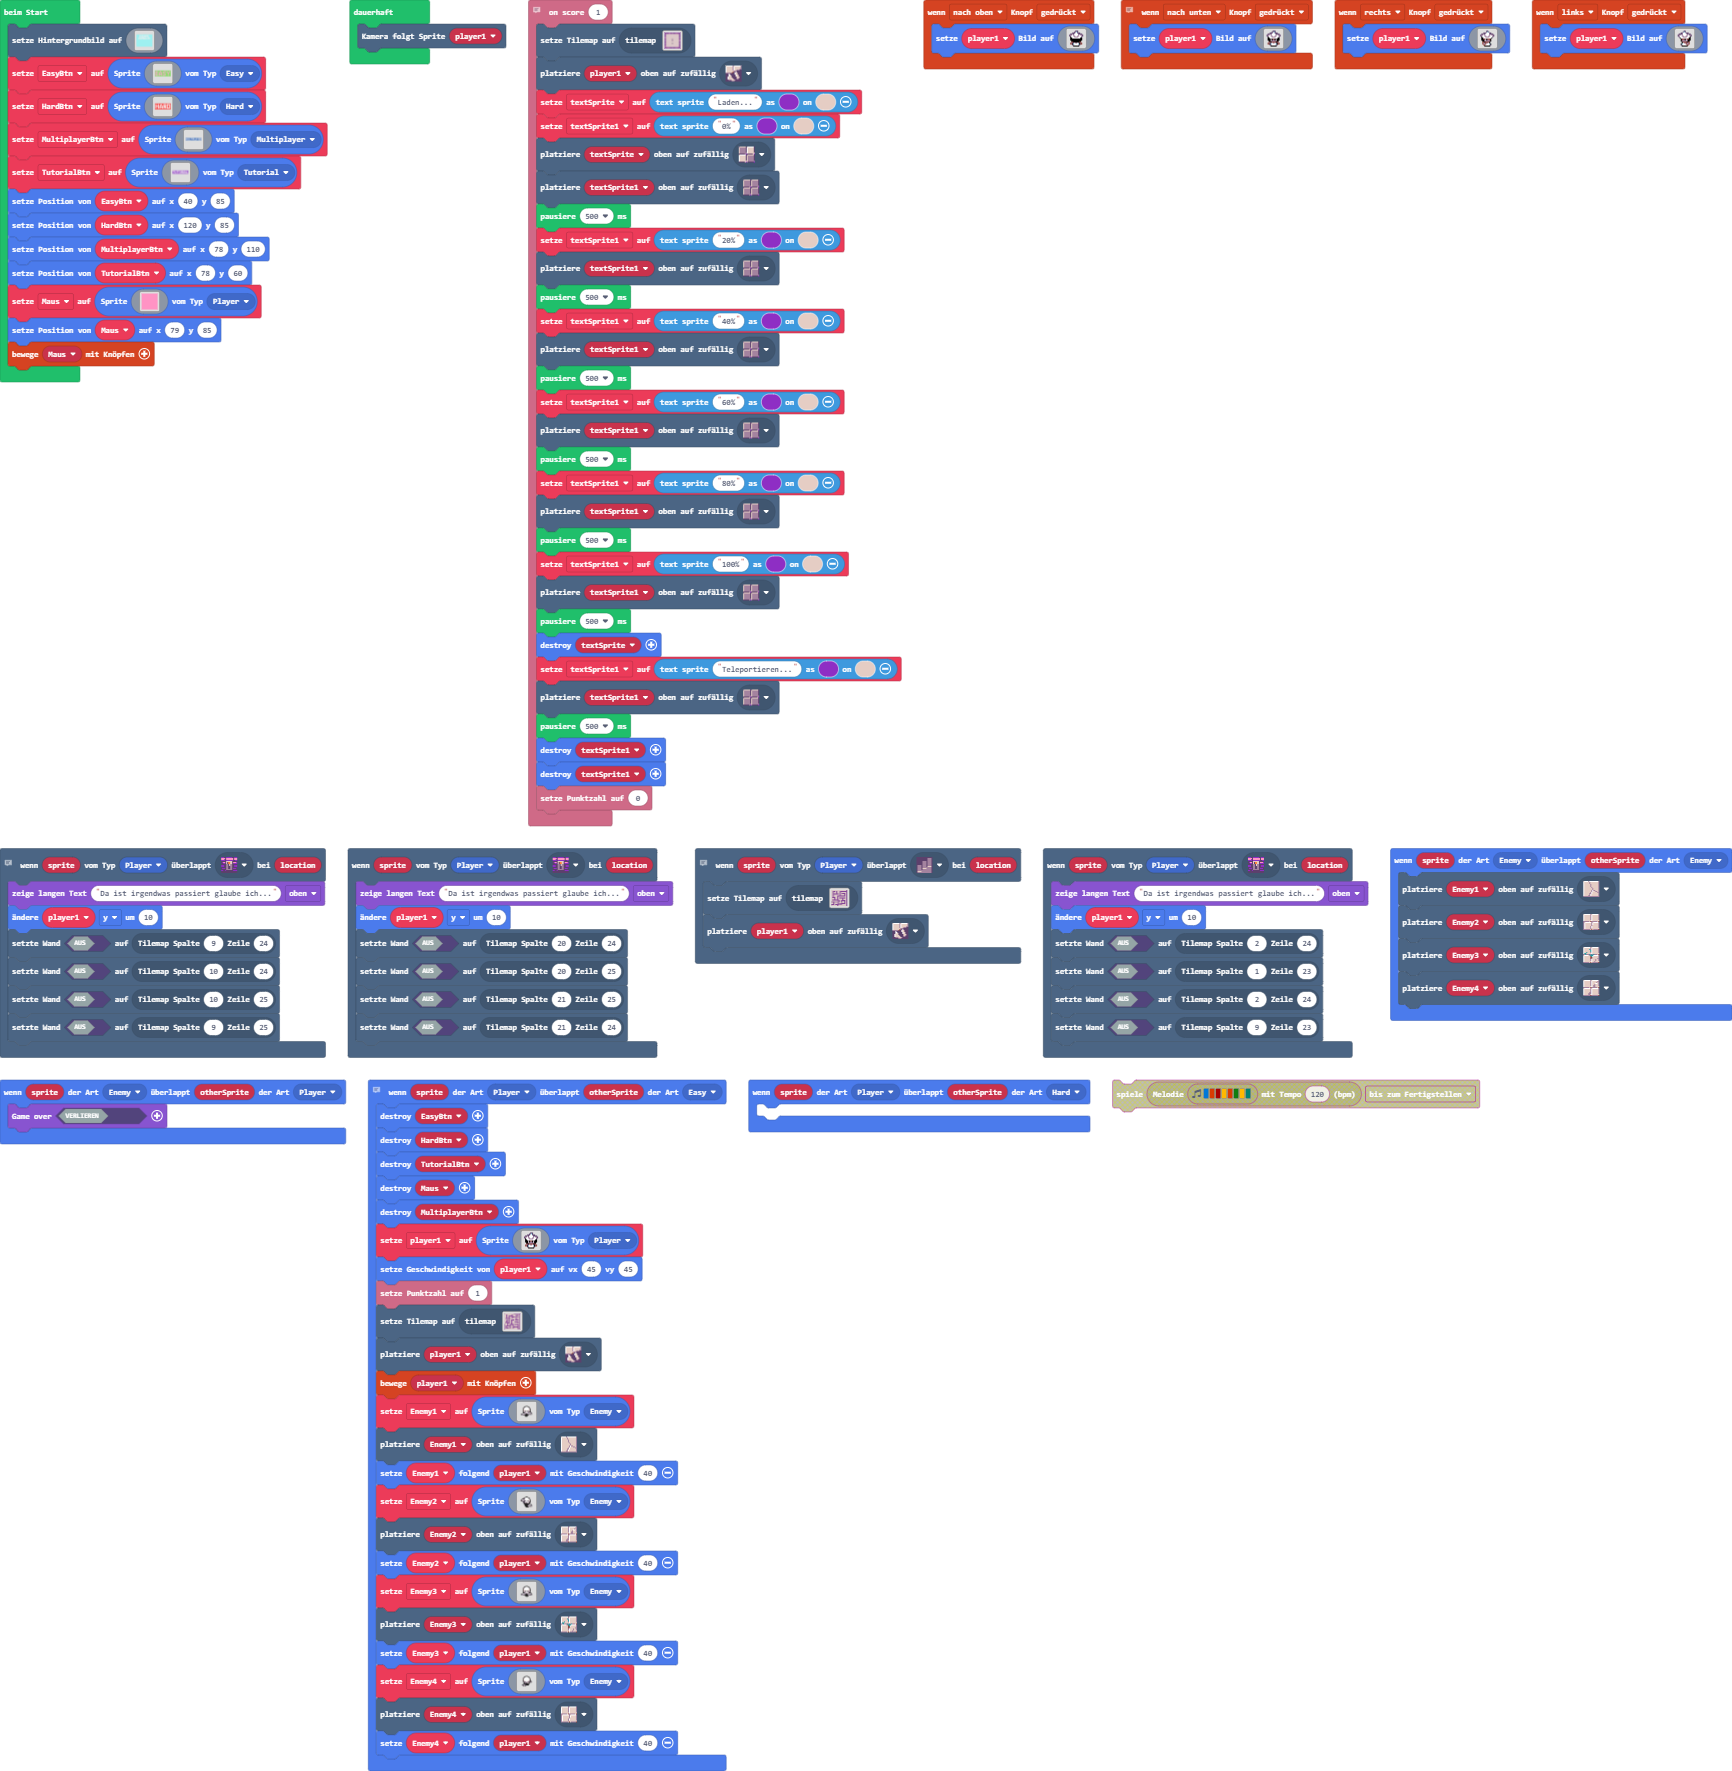
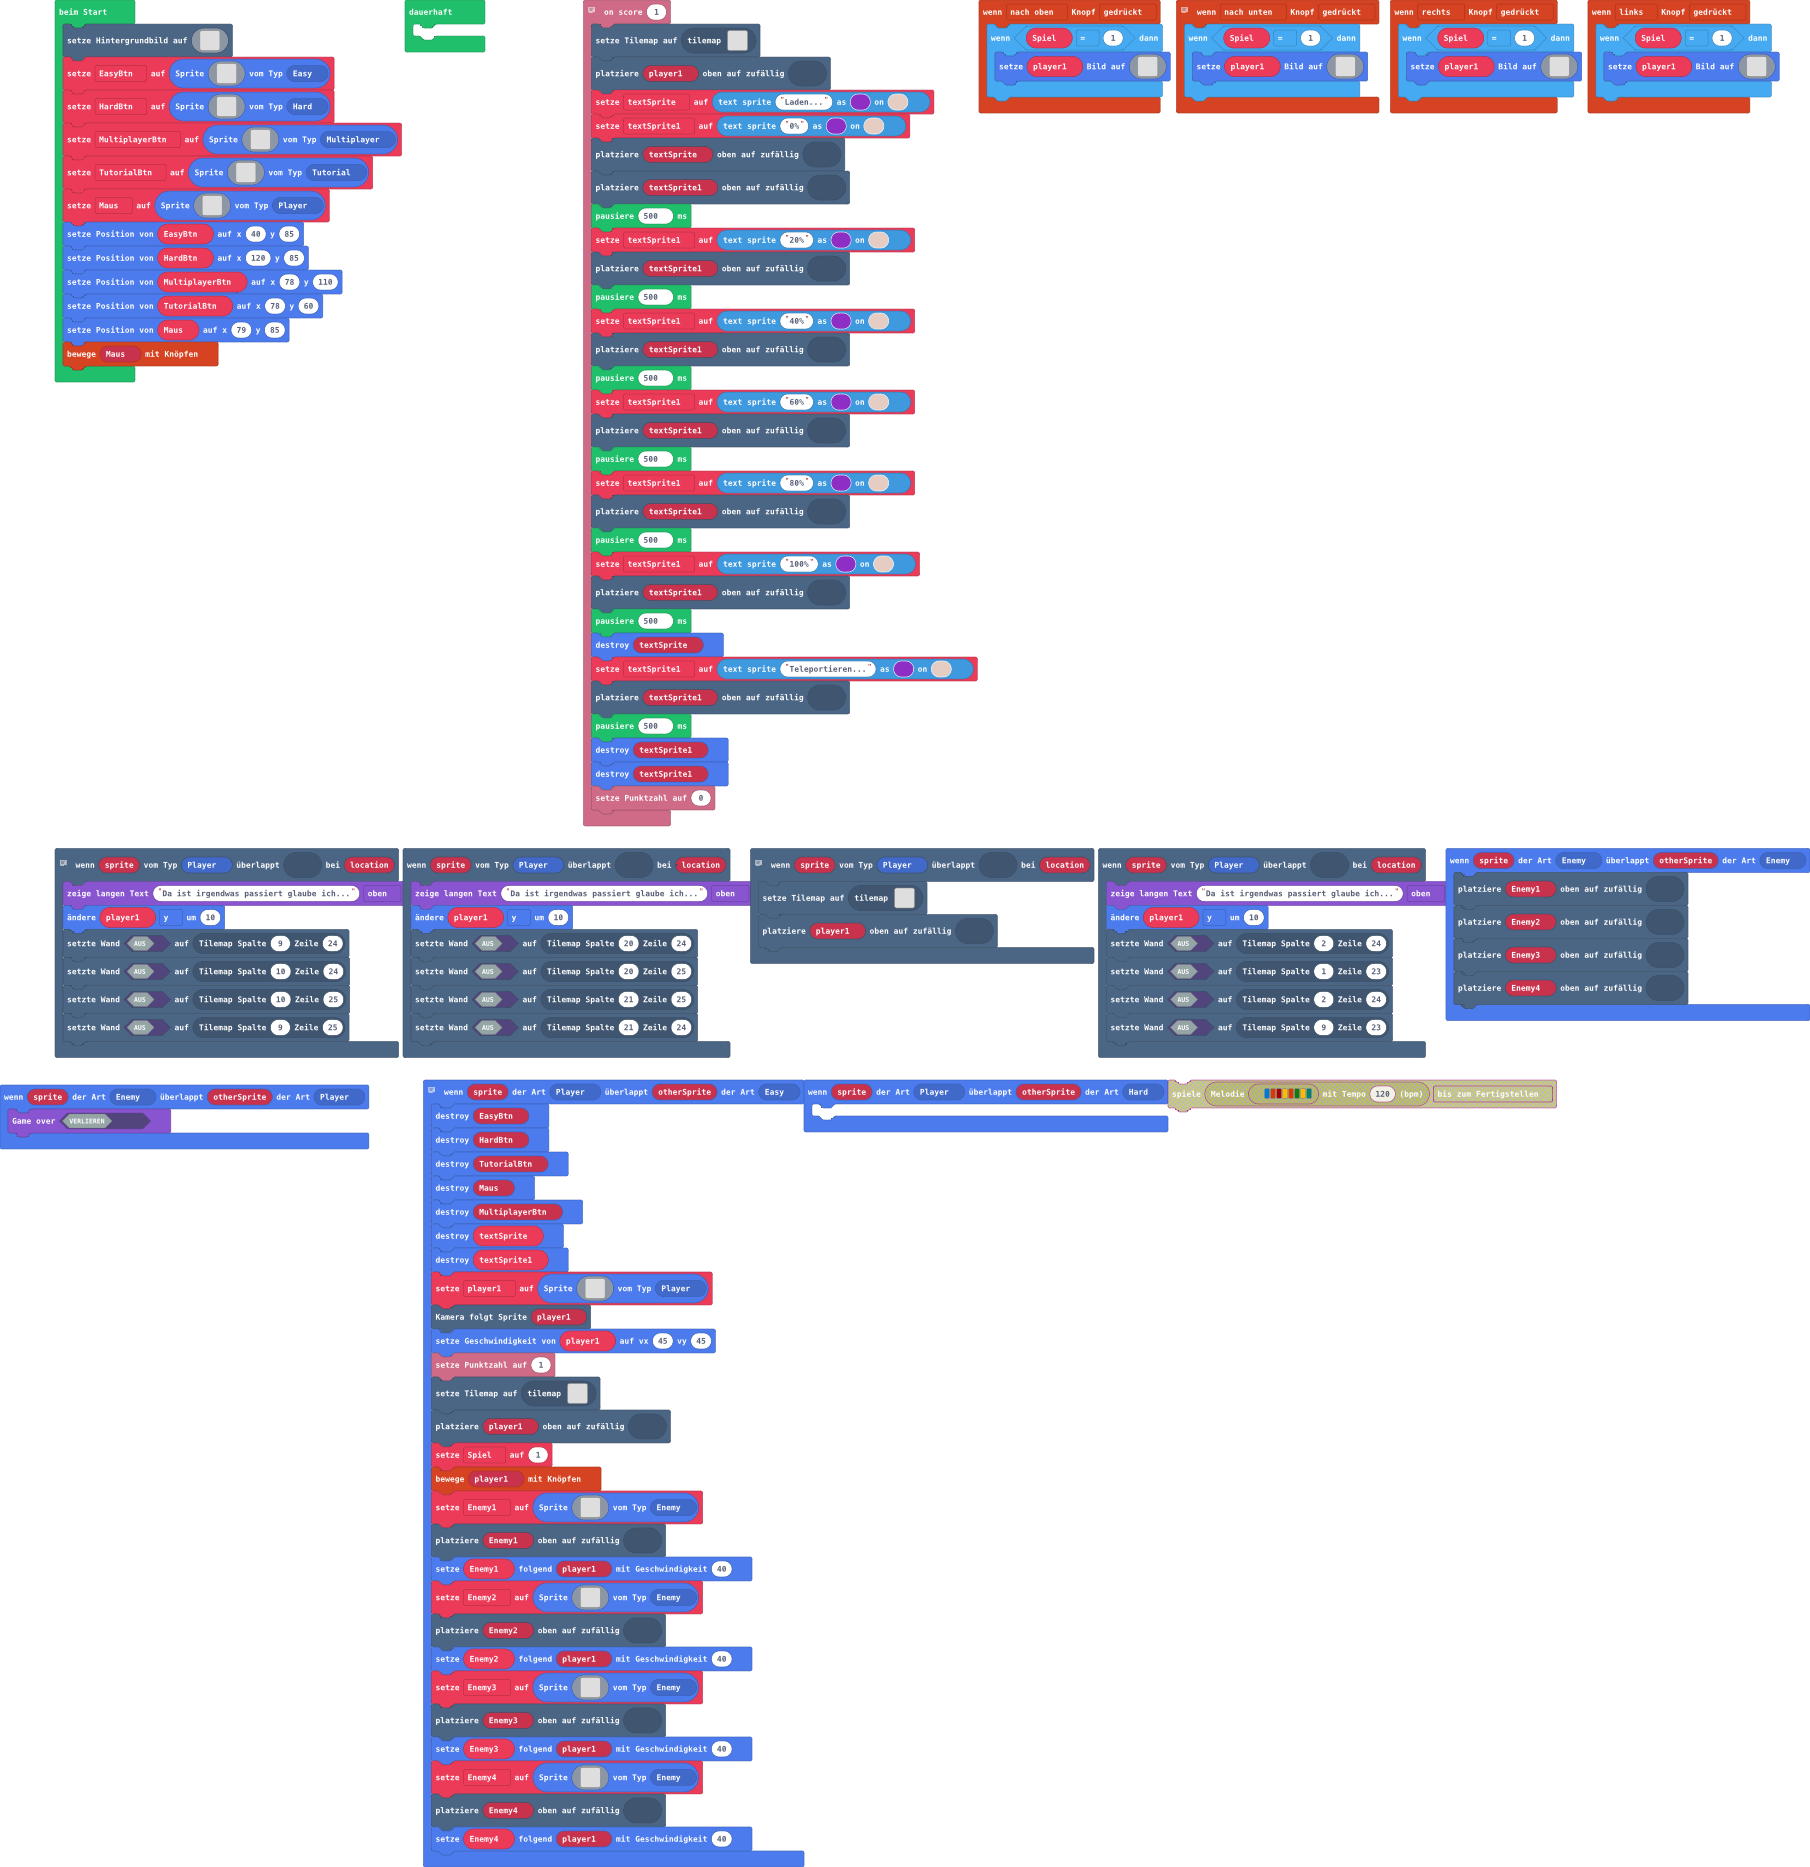
Fix for: Sim error: Failed cast on null

Changed region(s): [[0.0, 0.0, 1.0, 1.0], [0.0, 0.0, 0.2182, 0.2174]]

diff --git a/main.ts b/main.ts
@@ -14,6 +14,8 @@ sprites.onOverlap(SpriteKind.Player, SpriteKind.Easy, function (sprite, otherSpr
     sprites.destroy(TutorialBtn)
     sprites.destroy(Maus)
     sprites.destroy(MultiplayerBtn)
+    sprites.destroy(textSprite)
+    sprites.destroy(textSprite1)
     player1 = sprites.create(img`
         . . . . . . . c c c . . . . . . 
         . . . . . . c b 9 c . . . . . . 
@@ -32,10 +34,12 @@ sprites.onOverlap(SpriteKind.Player, SpriteKind.Easy, function (sprite, otherSpr
         . . . . c b 1 1 1 1 b c . . . . 
         . . . . . f f f f f f . . . . . 
         `, SpriteKind.Player)
+    scene.cameraFollowSprite(player1)
     player1.setVelocity(45, 45)
     info.setScore(1)
     tiles.setCurrentTilemap(tilemap`Level1`)
     tiles.placeOnRandomTile(player1, sprites.dungeon.floorLight3)
+    Spiel = 1
     controller.moveSprite(player1)
     Enemy1 = sprites.create(img`
         ........................
@@ -151,44 +155,48 @@ sprites.onOverlap(SpriteKind.Player, SpriteKind.Easy, function (sprite, otherSpr
     Enemy4.follow(player1, 40)
 })
 controller.up.onEvent(ControllerButtonEvent.Pressed, function () {
-    player1.setImage(img`
-        . . . . . . . c c c . . . . . . 
-        . . . . . . c b 9 c . . . . . . 
-        . . . . c c c 1 1 c c c . . . . 
-        . . c c b c 1 1 1 1 c c c c . . 
-        . c b b 1 b 1 1 1 1 b 1 b b c . 
-        . c b 1 1 b b 1 1 b b 1 1 b c . 
-        . . f 1 1 1 b b b b 1 1 1 c . . 
-        . . f f 1 1 1 1 1 1 1 1 f f . . 
-        . . f f f f f f f f f f f f . . 
-        . . f f f f f f f f f f f f . . 
-        . . . f f f f f f f f f f . . . 
-        . . . e e f f f f f f e e . . . 
-        . . e b c b 1 b b 1 b f b e . . 
-        . . e e f 9 1 1 1 1 9 f e e . . 
-        . . . . c b 1 1 1 1 b c . . . . 
-        . . . . . f f f f f f . . . . . 
-        `)
+    if (Spiel == 1) {
+        player1.setImage(img`
+            . . . . . . . c c c . . . . . . 
+            . . . . . . c b 9 c . . . . . . 
+            . . . . c c c 1 1 c c c . . . . 
+            . . c c b c 1 1 1 1 c c c c . . 
+            . c b b 1 b 1 1 1 1 b 1 b b c . 
+            . c b 1 1 b b 1 1 b b 1 1 b c . 
+            . . f 1 1 1 b b b b 1 1 1 c . . 
+            . . f f 1 1 1 1 1 1 1 1 f f . . 
+            . . f f f f f f f f f f f f . . 
+            . . f f f f f f f f f f f f . . 
+            . . . f f f f f f f f f f . . . 
+            . . . e e f f f f f f e e . . . 
+            . . e b c b 1 b b 1 b f b e . . 
+            . . e e f 9 1 1 1 1 9 f e e . . 
+            . . . . c b 1 1 1 1 b c . . . . 
+            . . . . . f f f f f f . . . . . 
+            `)
+    }
 })
 controller.left.onEvent(ControllerButtonEvent.Pressed, function () {
-    player1.setImage(img`
-        . . . . . . . c c . . . . . . . 
-        . . . . . . c 9 c . . . . . . . 
-        . . . . c c 1 1 1 c c c . . . . 
-        . . c c c c 1 1 1 1 c b c c . . 
-        . c b b 1 b 1 1 1 1 b 1 b b c . 
-        . c b 1 1 b b 1 1 b b 1 1 b c . 
-        . . c 1 1 1 b b b b 1 1 1 f . . 
-        . . . f 1 1 1 1 1 1 1 1 f f . . 
-        . . . . f e e e f b e e f f . . 
-        . . . . f e b b f 1 b f f f . . 
-        . . . . f b b b b b b f f . . . 
-        . . . . . f e e e e f e e . . . 
-        . . . . . f 1 b b e b b e . . . 
-        . . . . f 9 1 1 1 e b b e . . . 
-        . . . . c b 1 1 1 1 e e . . . . 
-        . . . . . f f f f f f . . . . . 
-        `)
+    if (Spiel == 1) {
+        player1.setImage(img`
+            . . . . . . . c c . . . . . . . 
+            . . . . . . c 9 c . . . . . . . 
+            . . . . c c 1 1 1 c c c . . . . 
+            . . c c c c 1 1 1 1 c b c c . . 
+            . c b b 1 b 1 1 1 1 b 1 b b c . 
+            . c b 1 1 b b 1 1 b b 1 1 b c . 
+            . . c 1 1 1 b b b b 1 1 1 f . . 
+            . . . f 1 1 1 1 1 1 1 1 f f . . 
+            . . . . f e e e f b e e f f . . 
+            . . . . f e b b f 1 b f f f . . 
+            . . . . f b b b b b b f f . . . 
+            . . . . . f e e e e f e e . . . 
+            . . . . . f 1 b b e b b e . . . 
+            . . . . f 9 1 1 1 e b b e . . . 
+            . . . . c b 1 1 1 1 e e . . . . 
+            . . . . . f f f f f f . . . . . 
+            `)
+    }
 })
 // Map-Funktionen
 scene.onOverlapTile(SpriteKind.Player, assets.tile`Hebel1`, function (sprite, location) {
@@ -215,44 +223,48 @@ sprites.onOverlap(SpriteKind.Enemy, SpriteKind.Enemy, function (sprite, otherSpr
 })
 // Laufanimationen
 controller.down.onEvent(ControllerButtonEvent.Pressed, function () {
-    player1.setImage(img`
-        . . . . . . . c c c . . . . . . 
-        . . . . . . c b 9 c . . . . . . 
-        . . . . c c c 1 1 c c c . . . . 
-        . . c c b c 1 1 1 1 c c c c . . 
-        . c b b 1 b 1 1 1 1 b 1 b b c . 
-        . c b 1 1 b b 1 1 b b 1 1 b c . 
-        . . f 1 1 1 b b b b 1 1 1 c . . 
-        . . f f 1 1 1 1 1 1 1 1 f f . . 
-        . . f f f b f e e f b f f f . . 
-        . . f f f 1 f b b f 1 f f f . . 
-        . . . f f b b b b b b f f . . . 
-        . . . e e f e e e e f e e . . . 
-        . . e b c b 1 b b 1 b f b e . . 
-        . . e e f 9 1 1 1 1 9 f e e . . 
-        . . . . c b 1 1 1 1 b c . . . . 
-        . . . . . f f f f f f . . . . . 
-        `)
+    if (Spiel == 1) {
+        player1.setImage(img`
+            . . . . . . . c c c . . . . . . 
+            . . . . . . c b 9 c . . . . . . 
+            . . . . c c c 1 1 c c c . . . . 
+            . . c c b c 1 1 1 1 c c c c . . 
+            . c b b 1 b 1 1 1 1 b 1 b b c . 
+            . c b 1 1 b b 1 1 b b 1 1 b c . 
+            . . f 1 1 1 b b b b 1 1 1 c . . 
+            . . f f 1 1 1 1 1 1 1 1 f f . . 
+            . . f f f b f e e f b f f f . . 
+            . . f f f 1 f b b f 1 f f f . . 
+            . . . f f b b b b b b f f . . . 
+            . . . e e f e e e e f e e . . . 
+            . . e b c b 1 b b 1 b f b e . . 
+            . . e e f 9 1 1 1 1 9 f e e . . 
+            . . . . c b 1 1 1 1 b c . . . . 
+            . . . . . f f f f f f . . . . . 
+            `)
+    }
 })
 controller.right.onEvent(ControllerButtonEvent.Pressed, function () {
-    player1.setImage(img`
-        . . . . . . . c c . . . . . . . 
-        . . . . . . . c 9 c . . . . . . 
-        . . . . c c c 1 1 1 c c . . . . 
-        . . c c b c 1 1 1 1 c c c c . . 
-        . c b b 1 b 1 1 1 1 b 1 b b c . 
-        . c b 1 1 b b 1 1 b b 1 1 b c . 
-        . . f 1 1 1 b b b b 1 1 1 c . . 
-        . . f f 1 1 1 1 1 1 1 1 f . . . 
-        . . f f e e b f e e e f . . . . 
-        . . f f f b 1 f b b e f . . . . 
-        . . . f f b b b b b b f . . . . 
-        . . . e e f e e e e f . . . . . 
-        . . . e b b e b b 1 f . . . . . 
-        . . . e b b e 1 1 1 9 f . . . . 
-        . . . . e e 1 1 1 1 b c . . . . 
-        . . . . . f f f f f f . . . . . 
-        `)
+    if (Spiel == 1) {
+        player1.setImage(img`
+            . . . . . . . c c . . . . . . . 
+            . . . . . . . c 9 c . . . . . . 
+            . . . . c c c 1 1 1 c c . . . . 
+            . . c c b c 1 1 1 1 c c c c . . 
+            . c b b 1 b 1 1 1 1 b 1 b b c . 
+            . c b 1 1 b b 1 1 b b 1 1 b c . 
+            . . f 1 1 1 b b b b 1 1 1 c . . 
+            . . f f 1 1 1 1 1 1 1 1 f . . . 
+            . . f f e e b f e e e f . . . . 
+            . . f f f b 1 f b b e f . . . . 
+            . . . f f b b b b b b f . . . . 
+            . . . e e f e e e e f . . . . . 
+            . . . e b b e b b 1 f . . . . . 
+            . . . e b b e 1 1 1 9 f . . . . 
+            . . . . e e 1 1 1 1 b c . . . . 
+            . . . . . f f f f f f . . . . . 
+            `)
+    }
 })
 // Ladeanzeige
 info.onScore(1, function () {
@@ -302,13 +314,14 @@ scene.onOverlapTile(SpriteKind.Player, sprites.dungeon.stairLarge, function (spr
     tiles.setCurrentTilemap(tilemap`Level2`)
     tiles.placeOnRandomTile(player1, sprites.dungeon.floorLight3)
 })
-let textSprite1: TextSprite = null
-let textSprite: TextSprite = null
 let Enemy4: Sprite = null
 let Enemy3: Sprite = null
 let Enemy2: Sprite = null
 let Enemy1: Sprite = null
+let Spiel = 0
 let player1: Sprite = null
+let textSprite1: TextSprite = null
+let textSprite: TextSprite = null
 let Maus: Sprite = null
 let TutorialBtn: Sprite = null
 let MultiplayerBtn: Sprite = null
@@ -520,10 +533,6 @@ TutorialBtn = sprites.create(img`
     aaaaaaaaaaaaaaaaaaaaaaaaaaaaaaaaaaaaaaaaaaaaaaaaaaaaaaaaaaaaaaaaaaaaaaaaaaaaaaaaaaaaaaaaaaaaaa
     aaaaaaaaaaaaaaaaaaaaaaaaaaaaaaaaaaaaaaaaaaaaaaaaaaaaaaaaaaaaaaaaaaaaaaaaaaaaaaaaaaaaaaaaaaaaaa
     `, SpriteKind.Tutorial)
-EasyBtn.setPosition(40, 85)
-HardBtn.setPosition(120, 85)
-MultiplayerBtn.setPosition(78, 110)
-TutorialBtn.setPosition(78, 60)
 Maus = sprites.create(img`
     3 3 3 3 3 3 3 3 3 3 3 3 3 3 3 3 
     3 3 3 3 3 3 3 3 3 3 3 3 3 3 3 3 
@@ -542,8 +551,12 @@ Maus = sprites.create(img`
     3 3 3 3 3 3 3 3 3 3 3 3 3 3 3 3 
     3 3 3 3 3 3 3 3 3 3 3 3 3 3 3 3 
     `, SpriteKind.Player)
+EasyBtn.setPosition(40, 85)
+HardBtn.setPosition(120, 85)
+MultiplayerBtn.setPosition(78, 110)
+TutorialBtn.setPosition(78, 60)
 Maus.setPosition(79, 85)
 controller.moveSprite(Maus)
 forever(function () {
-    scene.cameraFollowSprite(player1)
+	
 })

diff --git a/tilemap.g.ts b/tilemap.g.ts
@@ -139,6 +139,63 @@ namespace myTiles {
 ............22................22
 ........2...22................22
 `, [myTiles.transparency16,sprites.dungeon.floorLight0,sprites.dungeon.purpleOuterNorth1,sprites.dungeon.purpleOuterSouth1,sprites.dungeon.purpleOuterSouthWest,sprites.dungeon.purpleOuterNorth0,sprites.dungeon.purpleInnerSouthEast,sprites.dungeon.purpleOuterWest1,sprites.dungeon.purpleOuterEast0,sprites.dungeon.purpleInnerSouthWest,sprites.dungeon.purpleInnerNorthWest,sprites.dungeon.purpleOuterNorthEast,sprites.dungeon.purpleInnerNorthEast,sprites.dungeon.floorLight3,sprites.dungeon.floorLight2,sprites.dungeon.stairEast,sprites.dungeon.stairSouth,sprites.dungeon.stairNorth,sprites.dungeon.purpleOuterNorthWest,sprites.dungeon.purpleOuterSouthEast,sprites.dungeon.stairWest,sprites.dungeon.stairLarge,sprites.dungeon.purpleOuterSouth0,sprites.dungeon.floorLight5,sprites.dungeon.floorLight4,sprites.dungeon.floorLightMoss,sprites.dungeon.floorLight1,myTiles.tile3,myTiles.tile4], TileScale.Sixteen);
+            case "Level3":
+            case "Level3":return tiles.createTilemap(hex`1000100000000000000000000000000000000000000000000000000000000000000000000000000000000000000000000000000000000000000000000000000000000000000000000000000000000000000000000000000000000000000000000000000000000000000000000000000000000000000000000000000000000000000000000000000000000000000000000000000000000000000000000000000000000000000000000000000000000000000000000000000000000000000000000000000000000000000000000000000000000000000000000000000000000000000000000000000000000000000000000000000000000000000000000000000000000000`, img`
+. . . . . . . . . . . . . . . . 
+. . . . . . . . . . . . . . . . 
+. . . . . . . . . . . . . . . . 
+. . . . . . . . . . . . . . . . 
+. . . . . . . . . . . . . . . . 
+. . . . . . . . . . . . . . . . 
+. . . . . . . . . . . . . . . . 
+. . . . . . . . . . . . . . . . 
+. . . . . . . . . . . . . . . . 
+. . . . . . . . . . . . . . . . 
+. . . . . . . . . . . . . . . . 
+. . . . . . . . . . . . . . . . 
+. . . . . . . . . . . . . . . . 
+. . . . . . . . . . . . . . . . 
+. . . . . . . . . . . . . . . . 
+. . . . . . . . . . . . . . . . 
+`, [myTiles.transparency16], TileScale.Sixteen);
+            case "Level5":
+            case "Level5":return tiles.createTilemap(hex`1000100000000000000000000000000000000000000000000000000000000000000000000000000000000000000000000000000000000000000000000000000000000000000000000000000000000000000000000000000000000000000000000000000000000000000000000000000000000000000000000000000000000000000000000000000000000000000000000000000000000000000000000000000000000000000000000000000000000000000000000000000000000000000000000000000000000000000000000000000000000000000000000000000000000000000000000000000000000000000000000000000000000000000000000000000000000000`, img`
+. . . . . . . . . . . . . . . . 
+. . . . . . . . . . . . . . . . 
+. . . . . . . . . . . . . . . . 
+. . . . . . . . . . . . . . . . 
+. . . . . . . . . . . . . . . . 
+. . . . . . . . . . . . . . . . 
+. . . . . . . . . . . . . . . . 
+. . . . . . . . . . . . . . . . 
+. . . . . . . . . . . . . . . . 
+. . . . . . . . . . . . . . . . 
+. . . . . . . . . . . . . . . . 
+. . . . . . . . . . . . . . . . 
+. . . . . . . . . . . . . . . . 
+. . . . . . . . . . . . . . . . 
+. . . . . . . . . . . . . . . . 
+. . . . . . . . . . . . . . . . 
+`, [myTiles.transparency16], TileScale.Sixteen);
+            case "Level6":
+            case "Level6":return tiles.createTilemap(hex`1000100000000000000000000000000000000000000000000000000000000000000000000000000000000000000000000000000000000000000000000000000000000000000000000000000000000000000000000000000000000000000000000000000000000000000000000000000000000000000000000000000000000000000000000000000000000000000000000000000000000000000000000000000000000000000000000000000000000000000000000000000000000000000000000000000000000000000000000000000000000000000000000000000000000000000000000000000000000000000000000000000000000000000000000000000000000000`, img`
+. . . . . . . . . . . . . . . . 
+. . . . . . . . . . . . . . . . 
+. . . . . . . . . . . . . . . . 
+. . . . . . . . . . . . . . . . 
+. . . . . . . . . . . . . . . . 
+. . . . . . . . . . . . . . . . 
+. . . . . . . . . . . . . . . . 
+. . . . . . . . . . . . . . . . 
+. . . . . . . . . . . . . . . . 
+. . . . . . . . . . . . . . . . 
+. . . . . . . . . . . . . . . . 
+. . . . . . . . . . . . . . . . 
+. . . . . . . . . . . . . . . . 
+. . . . . . . . . . . . . . . . 
+. . . . . . . . . . . . . . . . 
+. . . . . . . . . . . . . . . . 
+`, [myTiles.transparency16], TileScale.Sixteen);
         }
         return null;
     })
